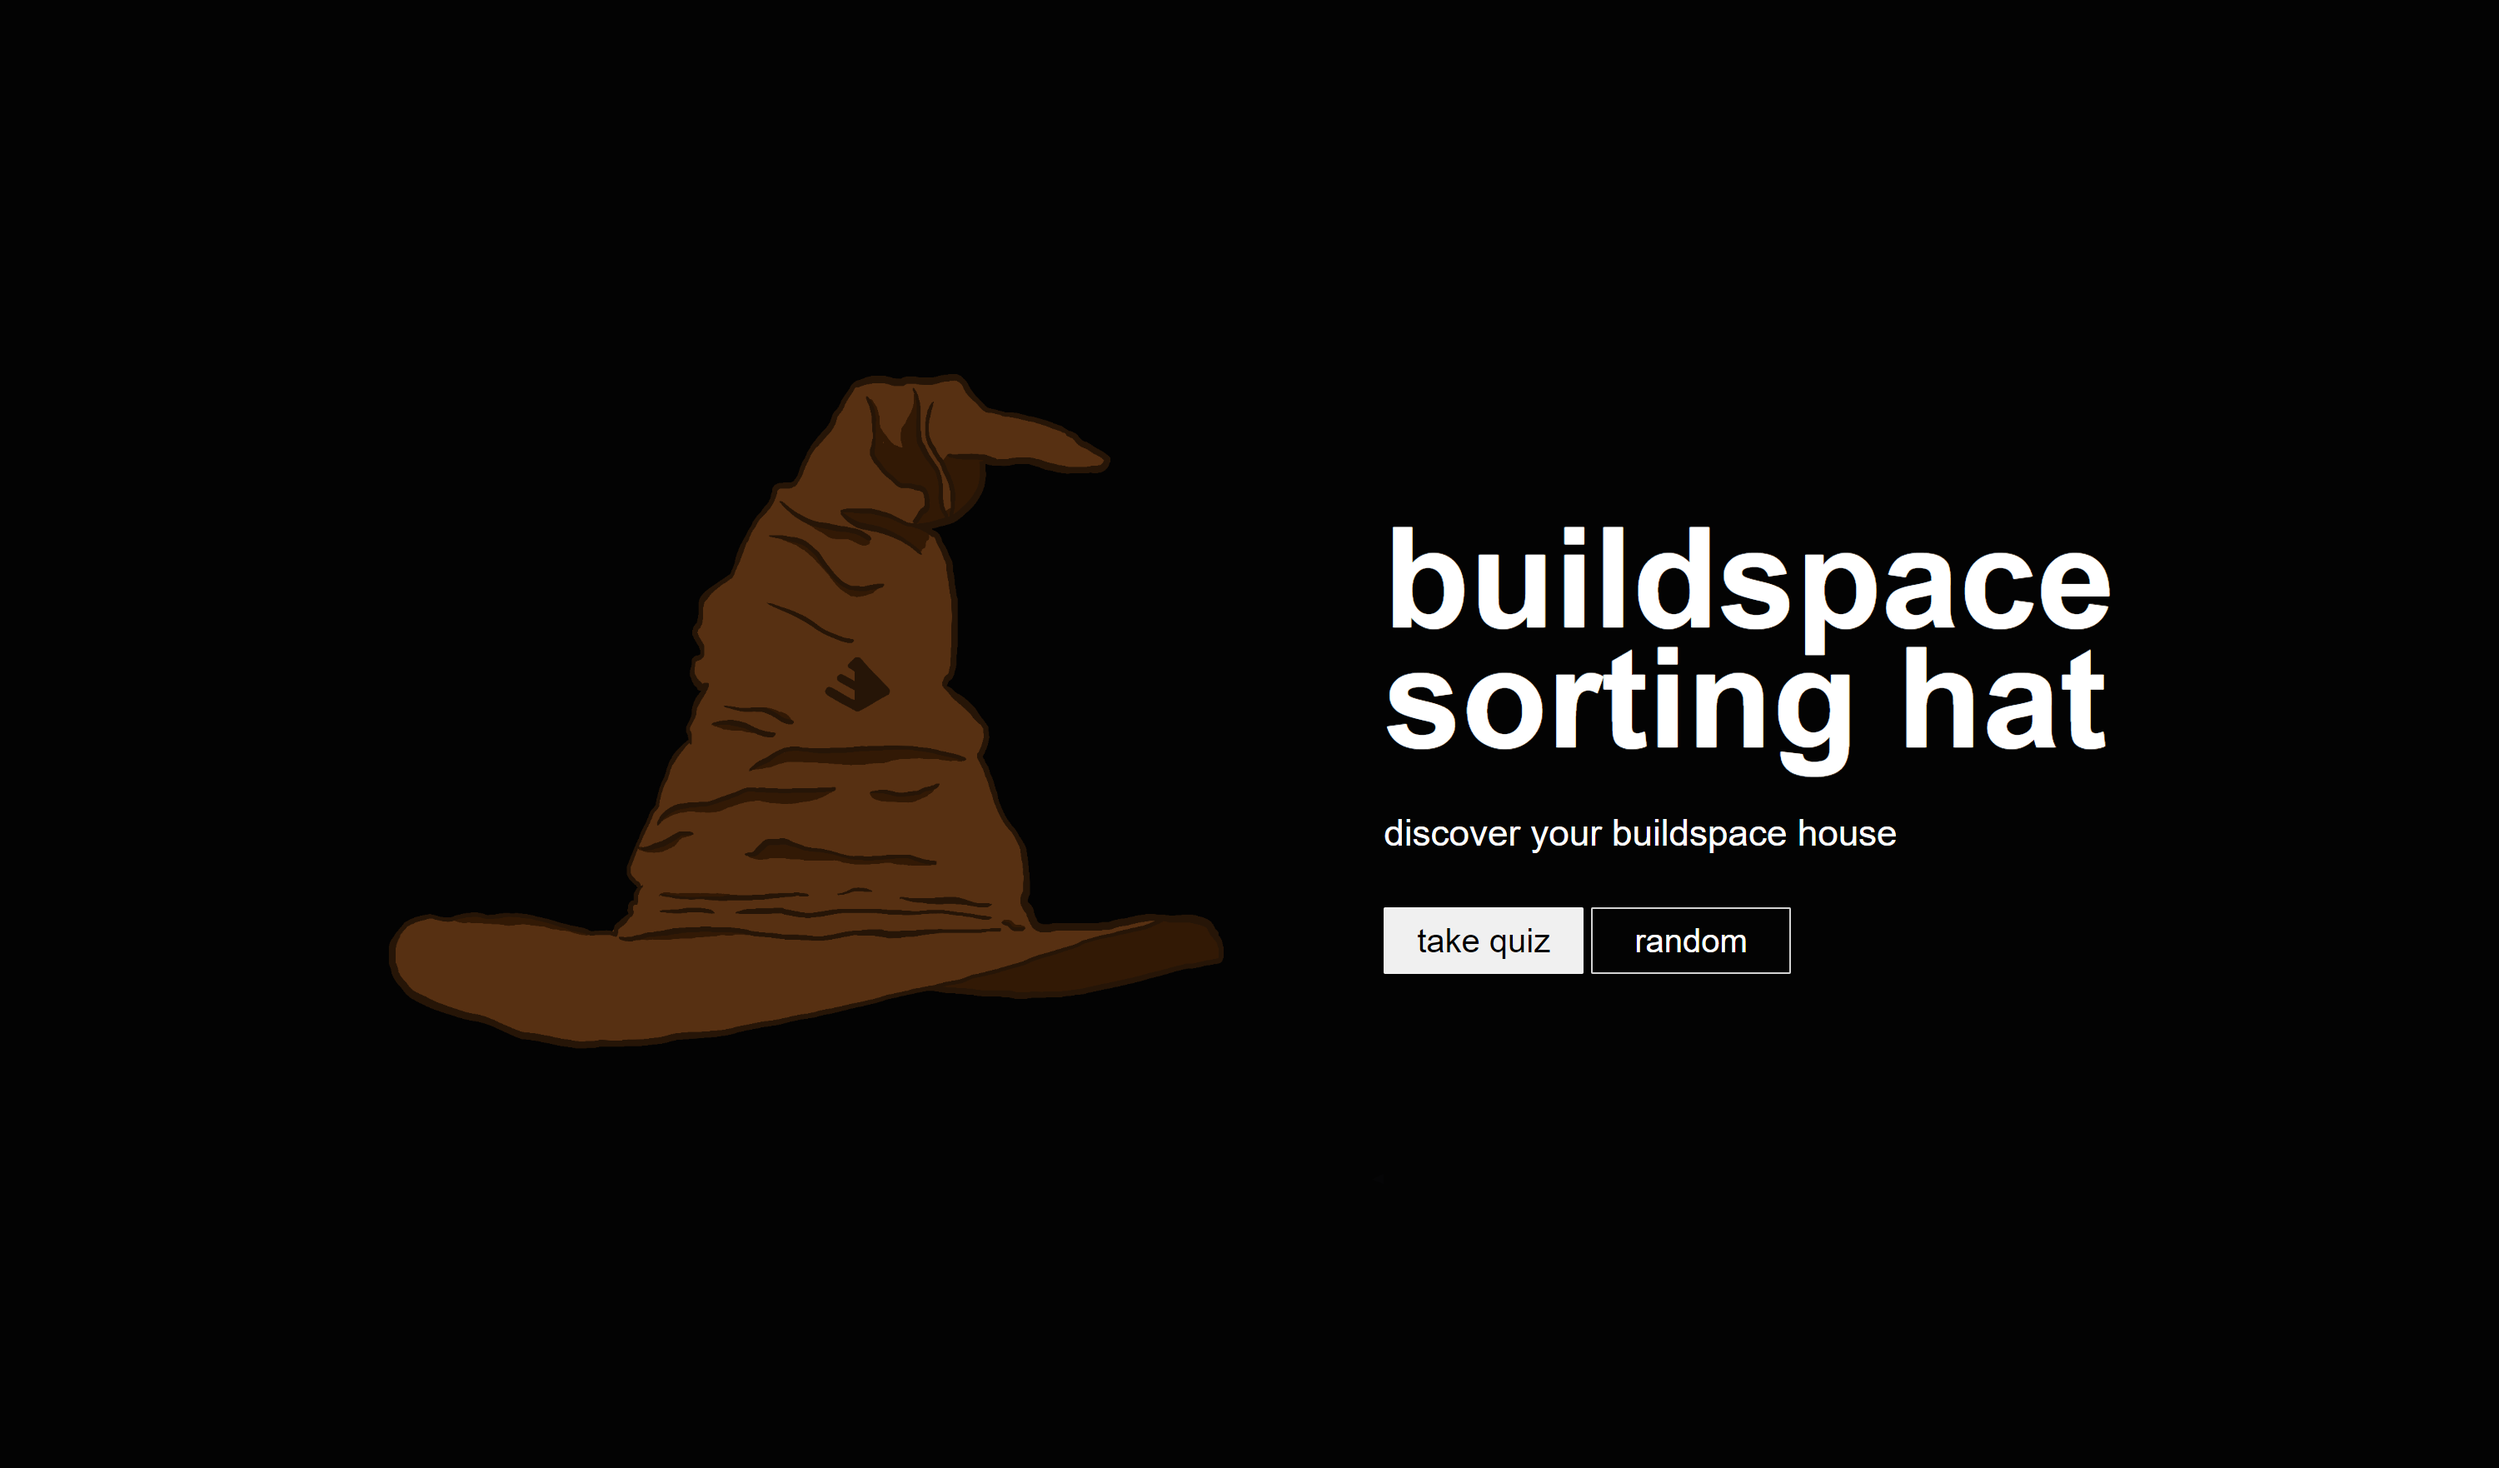
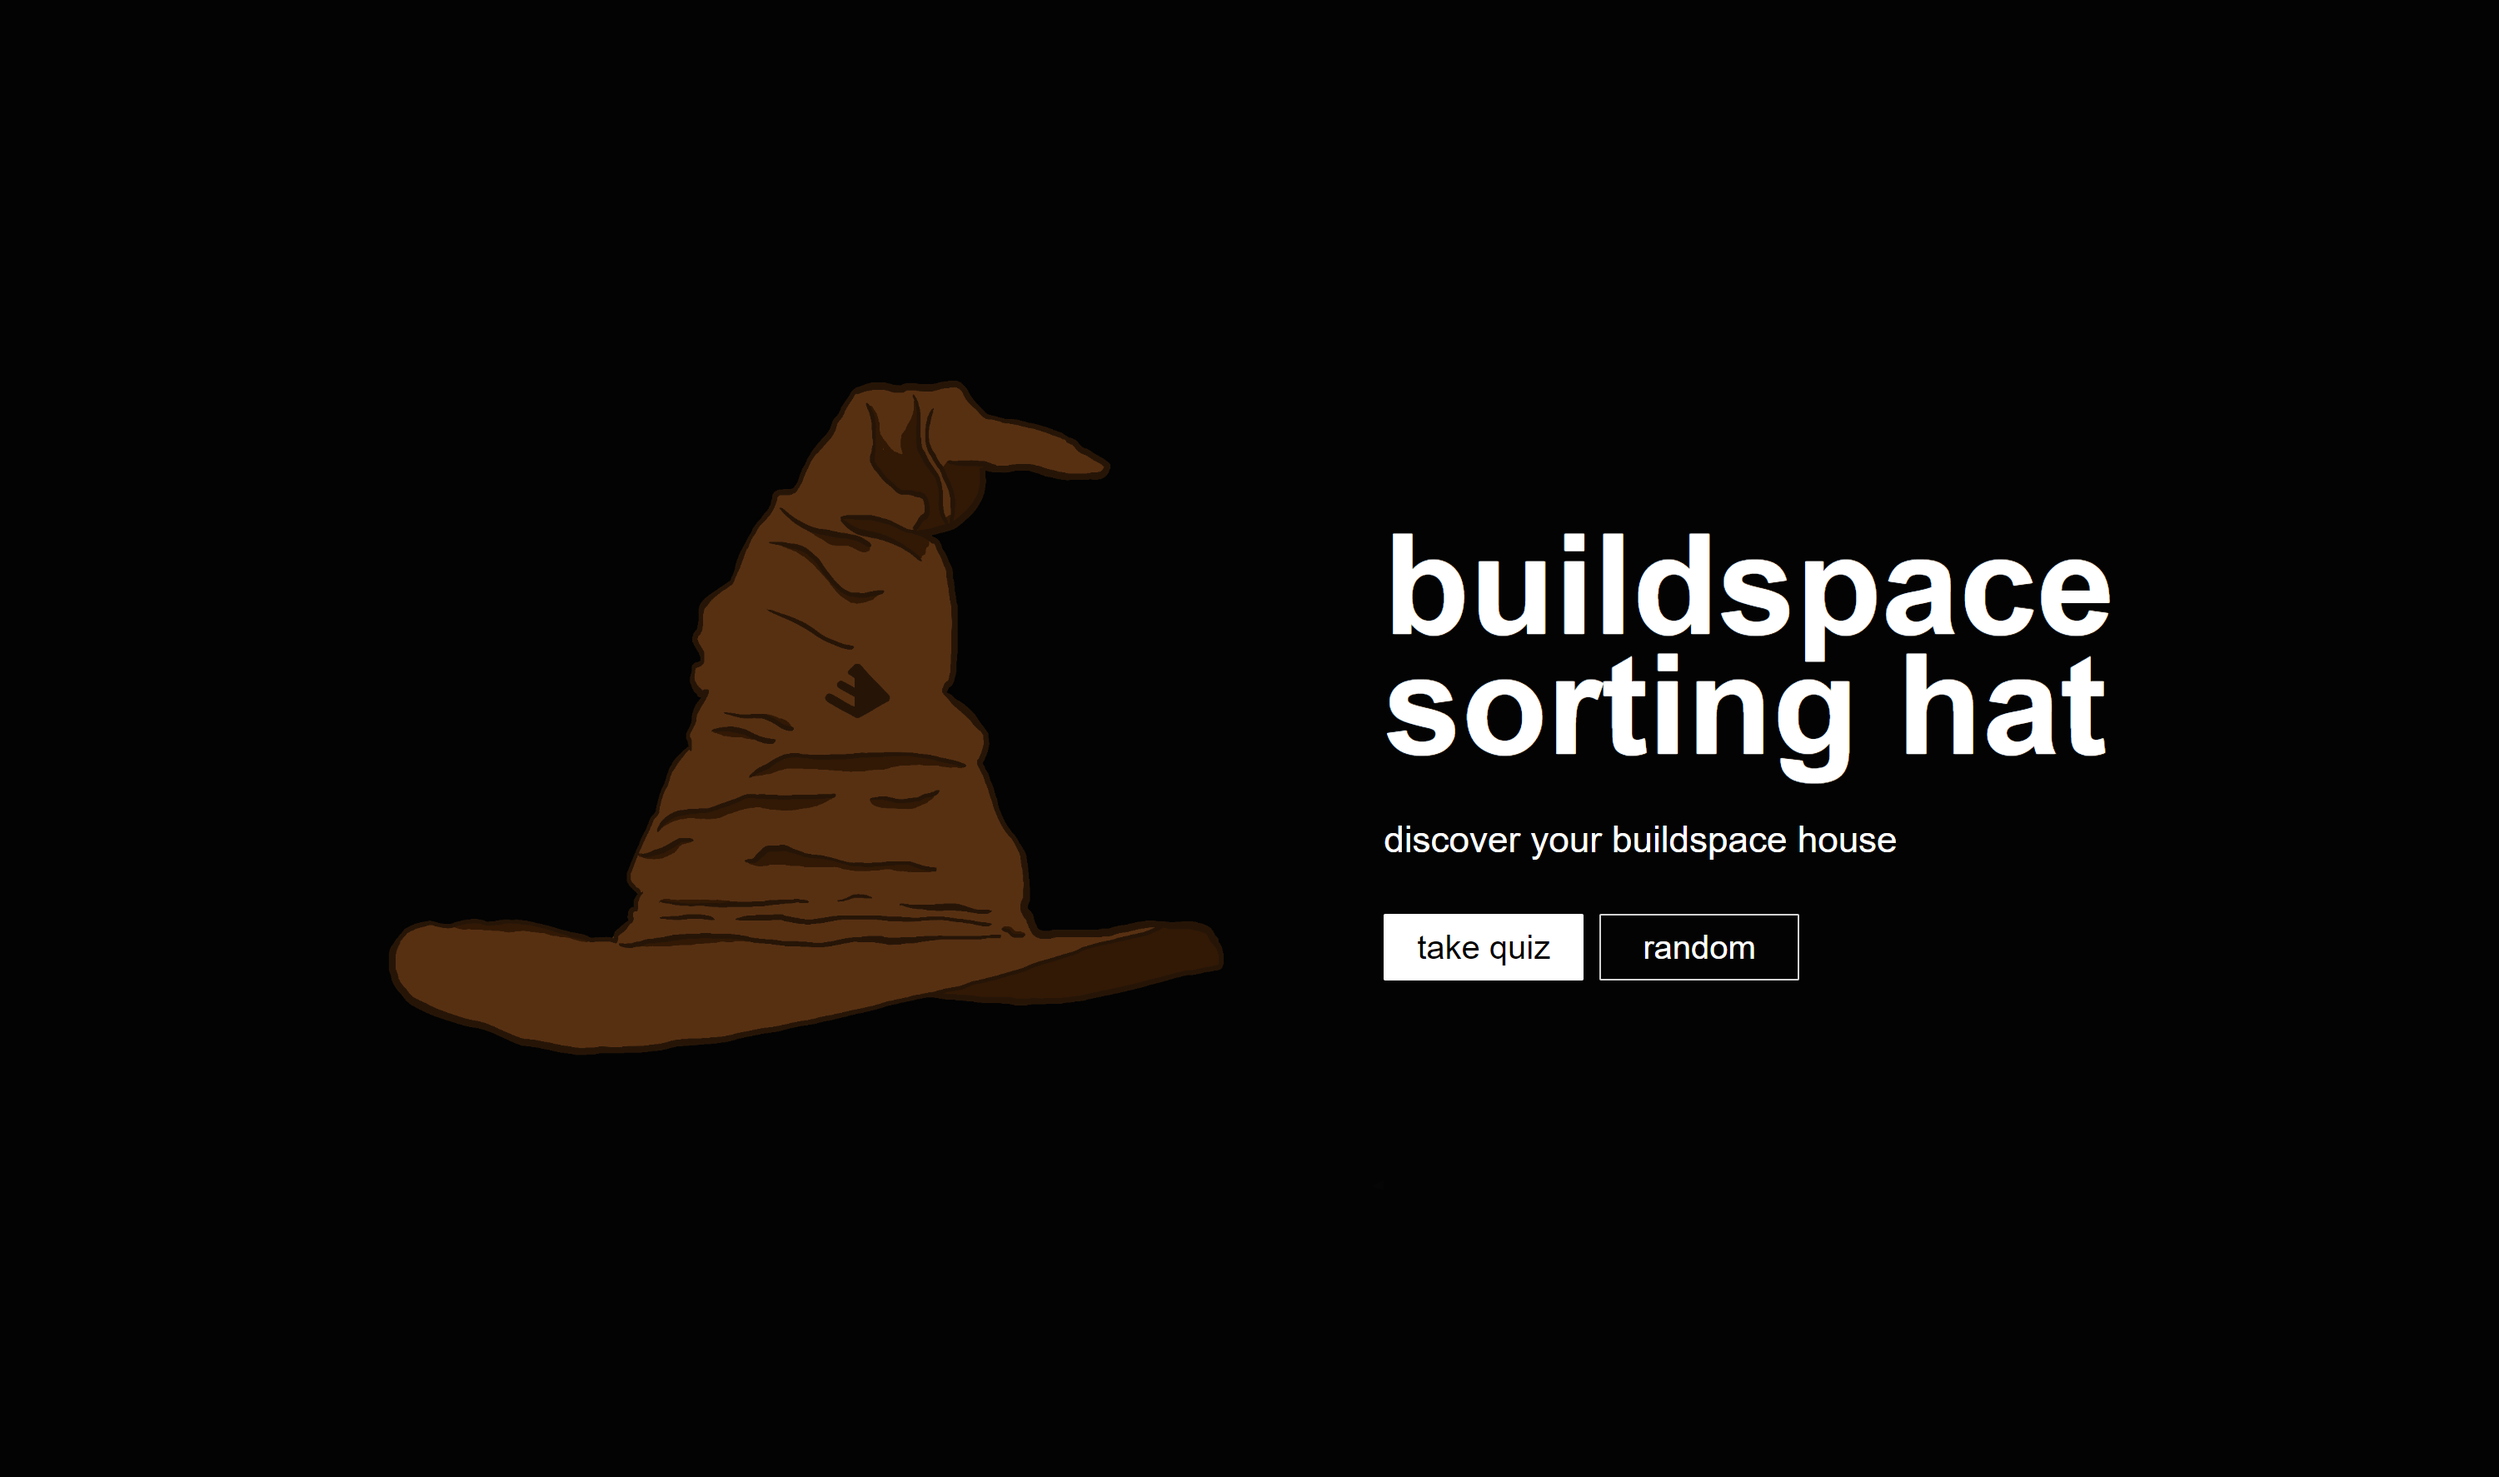
Add files via upload

diff --git a/style.css b/style.css
@@ -59,7 +59,7 @@ img {
   border-color: white;
   background-color: white;
   border-radius: 1px;
-  margin: 0px;
+  margin-right: 5px;
   font-size: 20px;
   font-family: Inter, sans-serif;
   text-align: center;
